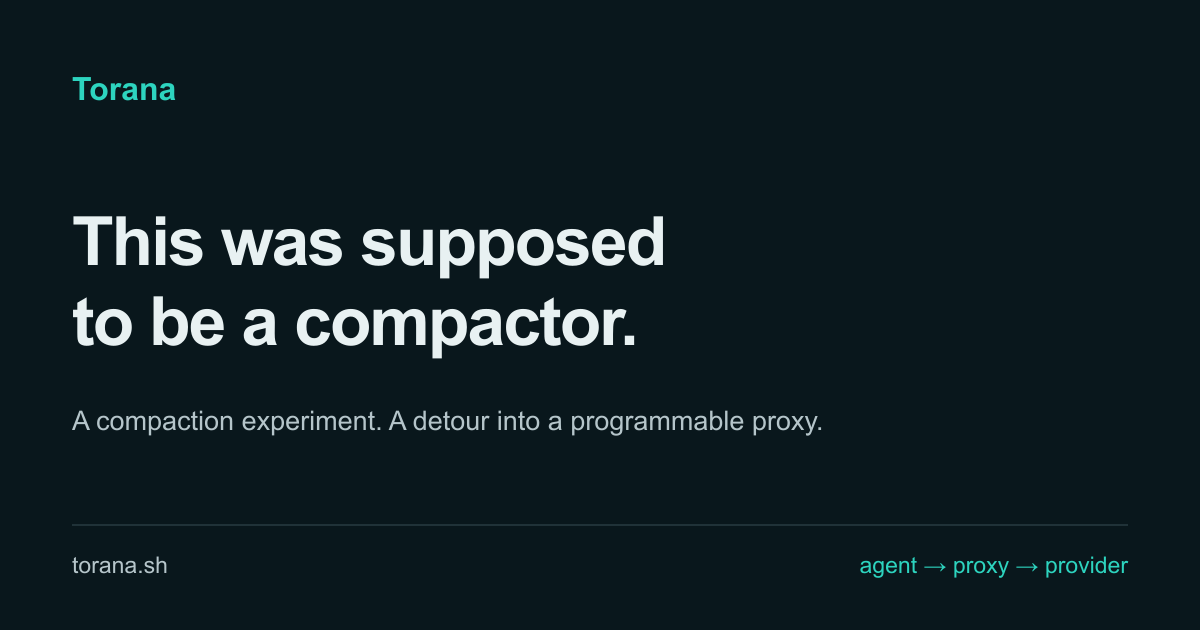
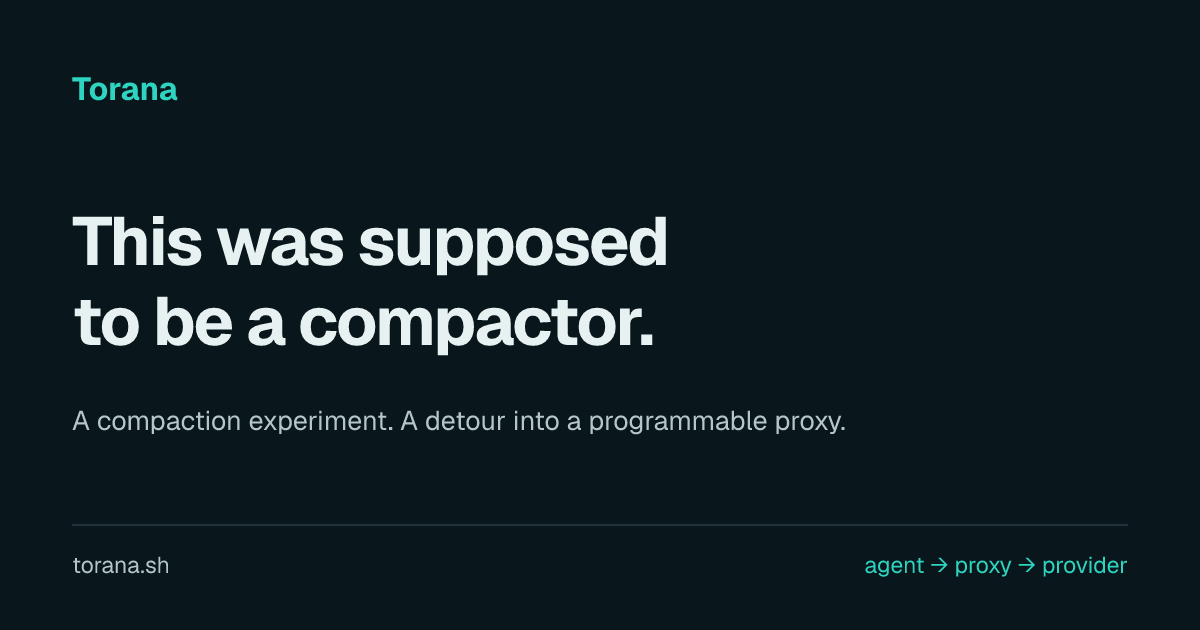
fix: verify social card exports and retain the experiment voice

diff --git a/README.md b/README.md
@@ -35,6 +35,24 @@ Social cards live in `public/social/`: editable SVG sources and matching 1200×6
 PNG exports. Keep each pair in sync; pages link to the PNG for social previews.
 The origin and compaction articles have their own cards.
 
+After editing a card, run `npm run social:build` and commit both the SVG and PNG.
+`npm run social:check` freshly renders every SVG and byte-compares the committed
+PNG. It fails for stale, missing, corrupted or orphaned exports without repairing
+them. It runs inside `npm run build`, so ordinary CI cannot ship a stale preview.
+
+Rendering uses the pinned development-only `@resvg/resvg-wasm` dependency and
+publicly hosted Geist Regular/Bold files at an immutable upstream revision, with
+SHA-256 checks. This avoids platform-specific Arial fallbacks and native renderer
+differences. The first run needs HTTPS access to raw.githubusercontent.com; fonts
+are cached by digest in the system temporary directory at
+`torana-site-social-fonts/`, outside the repository and build output. Cache hits
+are verified too. A missing network/font or integrity failure is an error, not a
+reason to skip the check or substitute another font. The fonts are licensed under
+the [SIL Open Font License](https://github.com/vercel/geist-font/blob/a6d260e6cbc07eafdfad438f33601fe3c38b1e6f/OFL.txt).
+No font files or renderer code are shipped to the website; its existing hosted
+fonts and browser fallbacks are unchanged. Still visually review card layout
+when changing copy: matching bytes prove freshness, not good typography.
+
 Before announcing the release, replace development-source installation with the
 verified tag instructions in Edge and `src/data/install.ts` together, then update
 the support matrix with the actual manual-test results. The owned-content check
@@ -42,6 +60,8 @@ currently enforces pre-release language and will need to evolve with that change
 Keep the site and launch articles focused on the project: no personal biography,
 named-author promotion, or personal-profile footer. The side-project journey,
 architectural scope creep, and technical lessons can keep their informal voice.
+First person is welcome when owning an experiment, measurement, or engineering
+decision; it does not need a biography or promotional byline.
 Review the origin article and add the real release demo;
 no recording or unverified release number is substituted here.
 
